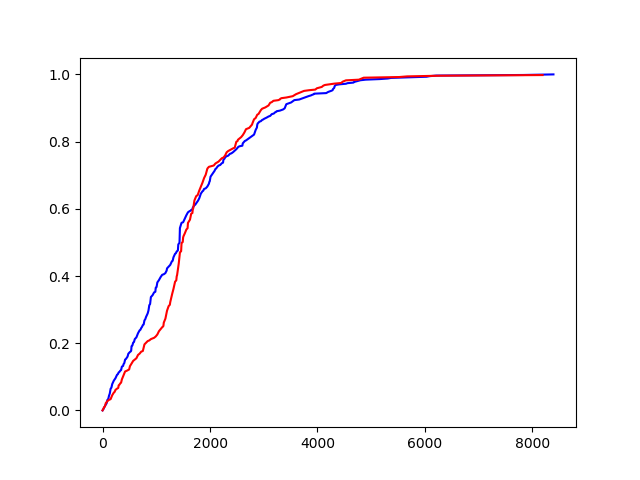
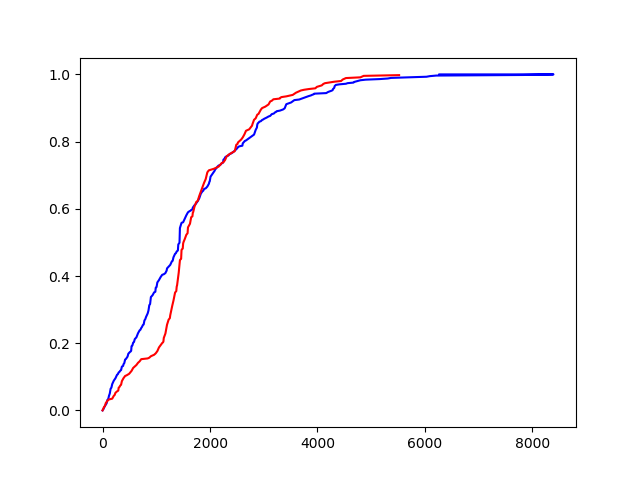
doing 5

diff --git a/5-1.py b/5-1.py
@@ -1,0 +1,94 @@
+import pymysql
+import matplotlib.pyplot as plt
+
+con = pymysql.connect(host="localhost", user="root", password="ckddud950!", db="youtube_popular", charset="utf8")
+cur = con.cursor()
+
+sql = 'select distinct videoId from popular where videoId not in (select videoId from popular where timeId = 1 or timeId = 858)'
+cur.execute(sql)
+result = cur.fetchall()
+result = list(result)
+
+videoList = []
+
+for element in result:
+    videoList.append(element[0])
+
+likesHatesPerViewsList = []
+
+for video in videoList:
+    print('kr', video)
+    sql = 'select views, likes, hates from video where views is not null and likes is not null and hates is not null and videoId = "' + video + '" order by timeId desc limit 1'
+    cur.execute(sql)
+    result = cur.fetchone()
+    if result == None:
+        continue
+    else:
+        likesHatesPerViewsList.append(round((result[1] + result[2]) / result[0], 4))
+
+likesHatesPerViewsList = sorted(likesHatesPerViewsList)
+
+x = [0]
+y = [0]
+temp = likesHatesPerViewsList[0]
+count = 0
+for data in likesHatesPerViewsList:
+    if data == temp:
+        count += 1
+    else:
+        x.append(temp)
+        y.append(count / len(likesHatesPerViewsList))
+        temp = data
+        count += 1
+x.append(temp)
+y.append(count / len(likesHatesPerViewsList))
+con.close()
+
+# ----------------------------------------------------------------------------------
+
+con = pymysql.connect(host="localhost", user="root", password="ckddud950!", db="youtube_popular2", charset="utf8")
+cur = con.cursor()
+
+sql = 'select distinct videoId from popular where videoId not in (select videoId from popular where timeId = 1 or timeId = 674)'
+cur.execute(sql)
+result = cur.fetchall()
+result = list(result)
+
+videoList = []
+
+for element in result:
+    videoList.append(element[0])
+
+likesHatesPerViewsList = []
+
+for video in videoList:
+    print('us', video)
+    sql = 'select views, likes, hates from video where views is not null and likes is not null and hates is not null and videoId = "' + video + '" order by timeId desc limit 1'
+    cur.execute(sql)
+    result = cur.fetchone()
+    if result == None:
+        continue
+    else:
+        likesHatesPerViewsList.append(round((result[1] + result[2]) / result[0], 4))
+
+likesHatesPerViewsList = sorted(likesHatesPerViewsList)
+
+x2 = [0]
+y2 = [0]
+temp = likesHatesPerViewsList[0]
+count = 0
+for data in likesHatesPerViewsList:
+    if data == temp:
+        count += 1
+    else:
+        x2.append(temp)
+        y2.append(count / len(likesHatesPerViewsList))
+        temp = data
+        count += 1
+x2.append(temp)
+y2.append(count / len(likesHatesPerViewsList))
+plt.plot(x, y, color="blue")
+plt.plot(x2, y2, color="red")
+plt.savefig('5-1result.png')
+
+con.close()

diff --git a/5-2.py b/5-2.py
@@ -1,0 +1,95 @@
+import pymysql
+import matplotlib.pyplot as plt
+
+con = pymysql.connect(host="localhost", user="root", password="ckddud950!", db="youtube_popular", charset="utf8")
+cur = con.cursor()
+
+sql = 'select distinct videoId from popular where videoId not in (select videoId from popular where timeId = 1 or timeId = 858)'
+cur.execute(sql)
+result = cur.fetchall()
+result = list(result)
+
+videoList = []
+
+for element in result:
+    videoList.append(element[0])
+
+likesPerHates = []
+
+for video in videoList:
+    print('kr', video)
+    sql = 'select likes, hates from video where views is not null and likes is not null and hates is not null and videoId = "' + video + '" order by timeId desc limit 1'
+    cur.execute(sql)
+    result = cur.fetchone()
+    if result == None:
+        continue
+    else:
+        likesPerHates.append(round(result[0] / result[1], 4))
+
+likesPerHates = sorted(likesPerHates)
+
+x = [0]
+y = [0]
+temp = likesPerHates[0]
+count = 0
+for data in likesPerHates:
+    if data == temp:
+        count += 1
+    else:
+        x.append(temp)
+        y.append(count / len(likesPerHates))
+        temp = data
+        count += 1
+x.append(temp)
+y.append(count / len(likesPerHates))
+con.close()
+
+# ----------------------------------------------------------------------------------
+
+con = pymysql.connect(host="localhost", user="root", password="ckddud950!", db="youtube_popular2", charset="utf8")
+cur = con.cursor()
+
+sql = 'select distinct videoId from popular where videoId not in (select videoId from popular where timeId = 1 or timeId = 674)'
+cur.execute(sql)
+result = cur.fetchall()
+result = list(result)
+
+videoList = []
+
+for element in result:
+    videoList.append(element[0])
+
+likesPerHates = []
+
+for video in videoList:
+    print('us', video)
+    sql = 'select likes, hates from video where views is not null and likes is not null and hates is not null and videoId = "' + video + '" order by timeId desc limit 1'
+    cur.execute(sql)
+    result = cur.fetchone()
+    if result == None:
+        continue
+    else:
+        likesPerHates.append(round(result[0] / result[1], 4))
+
+likesPerHates = sorted(likesPerHates)
+
+x2 = [0]
+y2 = [0]
+temp = likesPerHates[0]
+count = 0
+for data in likesPerHates:
+    if data == temp:
+        count += 1
+    else:
+        x2.append(temp)
+        y2.append(count / len(likesPerHates))
+        temp = data
+        count += 1
+x2.append(temp)
+y2.append(count / len(likesPerHates))
+
+plt.plot(x, y, color="blue")
+plt.plot(x2, y2, color="red")
+plt.savefig('5-2result.png')
+
+con.close()

diff --git a/3.py b/3.py
@@ -55,7 +55,7 @@ con.close()
 con = pymysql.connect(host="localhost", user="root", password="ckddud950!", db="youtube_popular2", charset="utf8")
 cur = con.cursor()
 
-sql = 'select distinct videoId from popular where videoId not in (select videoId from popular where timeId = 1 or timeId = 858)'
+sql = 'select distinct videoId from popular where videoId not in (select videoId from popular where timeId = 1 or timeId = 674)'
 cur.execute(sql)
 result = cur.fetchall()
 result = list(result)
@@ -94,8 +94,8 @@ for data in timeOnPopularList:
         y2.append(count / len(timeOnPopularList))
         temp = data
         count += 1
-# x.append(temp)
-# y.append(count / len(timeOnPopularList))
+x.append(temp)
+y.append(count / len(timeOnPopularList))
 plt.plot(x, y, color="blue")
 plt.plot(x2, y2, color="red")
 plt.savefig('3result.png')

diff --git a/3us.py b/3us.py
@@ -5,7 +5,7 @@ import matplotlib.pyplot as plt
 con = pymysql.connect(host="localhost", user="root", password="ckddud950!", db="youtube_popular2", charset="utf8")
 cur = con.cursor()
 
-sql = 'select distinct videoId from popular where videoId not in (select videoId from popular where timeId = 1 or timeId = 858)'
+sql = 'select distinct videoId from popular where videoId not in (select videoId from popular where timeId = 1 or timeId = 674)'
 cur.execute(sql)
 result = cur.fetchall()
 result = list(result)
@@ -44,8 +44,8 @@ for data in timeOnPopularList:
         y.append(count / len(timeOnPopularList))
         temp = data
         count += 1
-# x.append(temp)
-# y.append(count / len(timeOnPopularList))
+x.append(temp)
+y.append(count / len(timeOnPopularList))
 plt.plot(x, y)
 plt.savefig('3usresult.png')
 

diff --git a/4kr.py b/4kr.py
@@ -1,0 +1,12 @@
+import pymysql
+import matplotlib.pyplot as plt
+
+con = pymysql.connect(host="localhost", user="root", password="ckddud950!", db="youtube_popular", charset="utf8")
+cur = con.cursor()
+
+sql = 'select distinct videoId from popular where videoId not in (select videoId from popular where timeId = 1 or timeId = 858)'
+cur.execute(sql)
+result = cur.fetchall()
+result = list(result)
+
+con.close()
